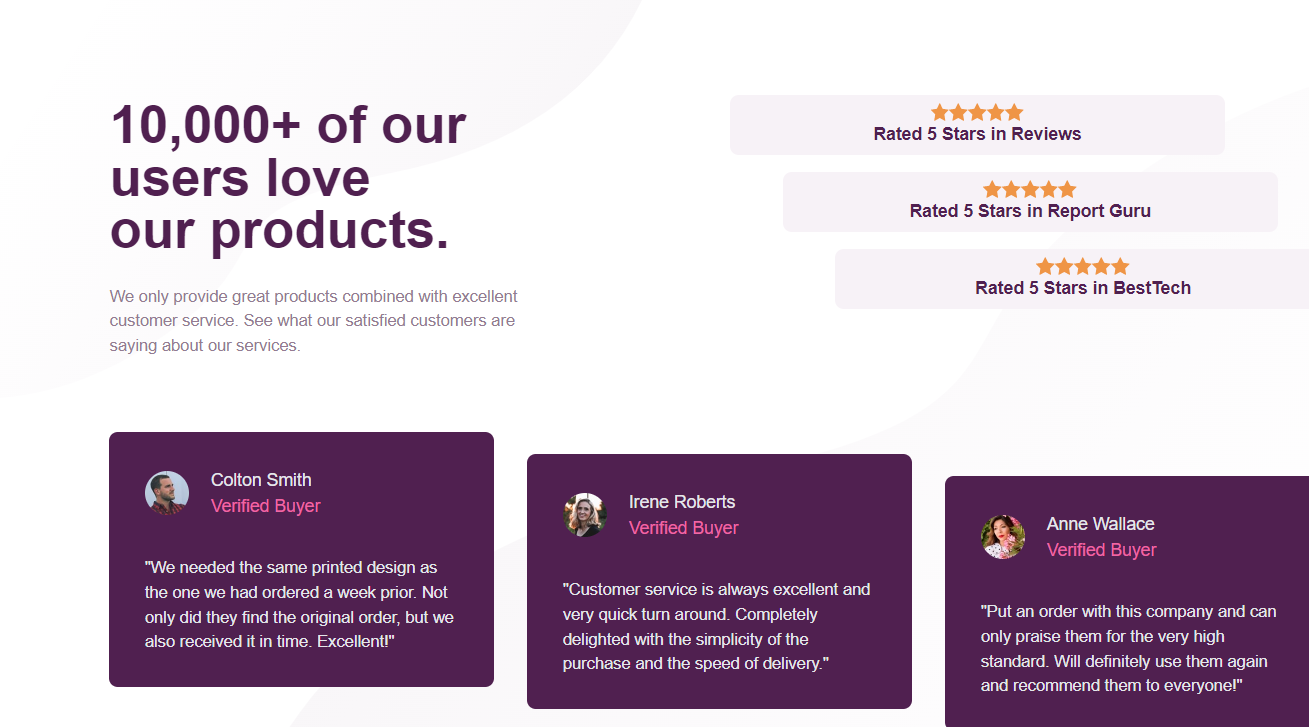
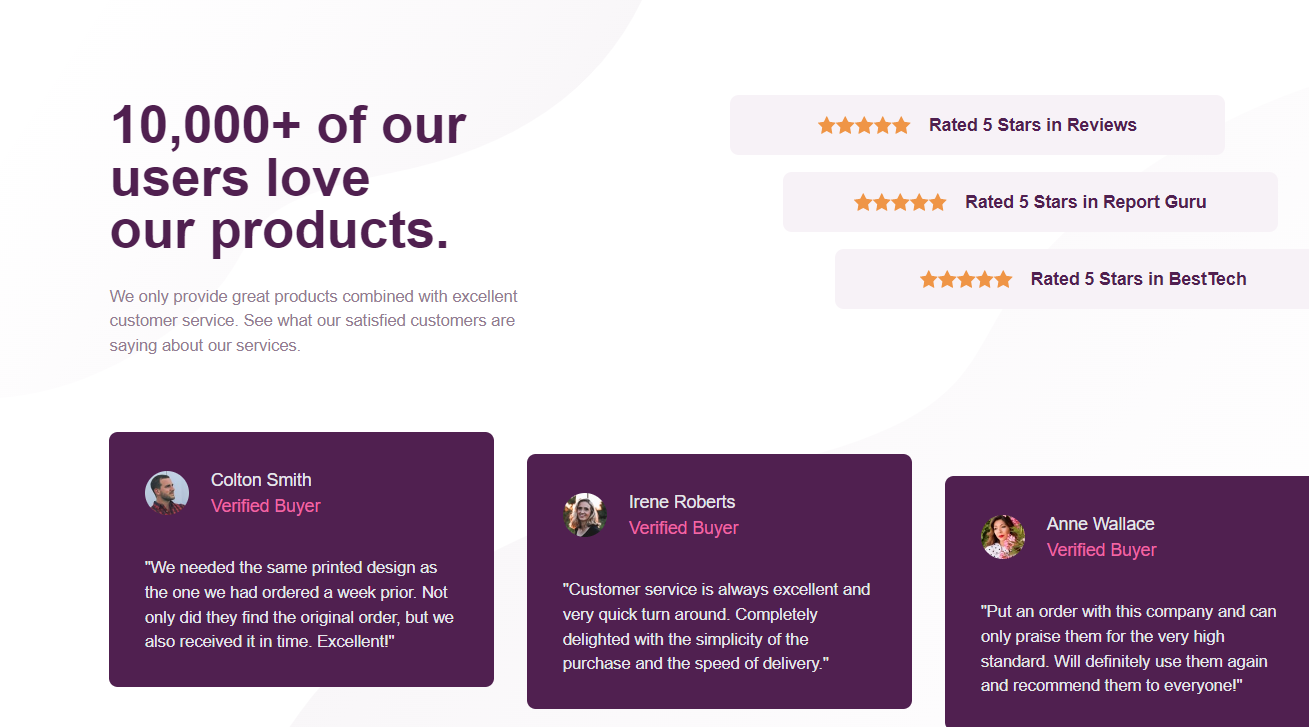
Fixed ratings

Changed region(s): [[0.7028, 0.3329, 0.9473, 0.4237], [0.6112, 0.1513, 0.8862, 0.2118], [0.6417, 0.2421, 0.9167, 0.3026]]

diff --git a/index.html b/index.html
@@ -41,9 +41,9 @@
           class="ratings w-[325px] flex flex-col items-center mb-12 desktop:w-[450px]"
         >
           <div
-            class="rating flex flex-col w-[325px] h-[80px] mb-4 rounded-lg items-center justify-center bg-neutral-light-grayish-magenta desktop:w-[450px] desktop:h-[54px] desktop:relative desktop:right-24"
+            class="rating flex flex-col w-[325px] h-[80px] mb-4 rounded-lg items-center justify-center bg-neutral-light-grayish-magenta desktop:flex-row desktop:w-[450px] desktop:h-[54px] desktop:relative desktop:right-24"
           >
-            <ul class="flex">
+            <ul class="flex mr-4">
               <li>
                 <img src="./images/icon-star.svg" alt="star icon" />
               </li>
@@ -67,9 +67,9 @@
             </p>
           </div>
           <div
-            class="rating flex flex-col w-[325px] h-[80px] mb-4 rounded-lg items-center justify-center bg-neutral-light-grayish-magenta desktop:w-[450px] desktop:h-[54px] desktop:relative desktop:right-12"
+            class="rating flex flex-col w-[325px] h-[80px] mb-4 rounded-lg items-center justify-center bg-neutral-light-grayish-magenta desktop:flex-row desktop:w-[450px] desktop:h-[54px] desktop:relative desktop:right-12"
           >
-            <ul class="flex">
+            <ul class="flex mr-4">
               <li>
                 <img src="./images/icon-star.svg" alt="star icon" />
               </li>
@@ -93,9 +93,9 @@
             </p>
           </div>
           <div
-            class="rating flex flex-col w-[325px] h-[80px] rounded-lg items-center justify-center bg-neutral-light-grayish-magenta desktop:w-[450px] desktop:h-[54px] desktop:relative"
+            class="rating flex flex-col w-[325px] h-[80px] rounded-lg items-center justify-center bg-neutral-light-grayish-magenta desktop:flex-row desktop:w-[450px] desktop:h-[54px] desktop:relative"
           >
-            <ul class="flex">
+            <ul class="flex desktop:mr-4">
               <li>
                 <img src="./images/icon-star.svg" alt="star icon" />
               </li>

diff --git a/output.css b/output.css
@@ -537,6 +537,10 @@ video {
   margin-right: 1.25rem;
 }
 
+.mr-4 {
+  margin-right: 1rem;
+}
+
 .flex {
   display: flex;
 }
@@ -699,6 +703,10 @@ video {
 
   .desktop\:mb-16 {
     margin-bottom: 4rem;
+  }
+
+  .desktop\:mr-4 {
+    margin-right: 1rem;
   }
 
   .desktop\:flex {
